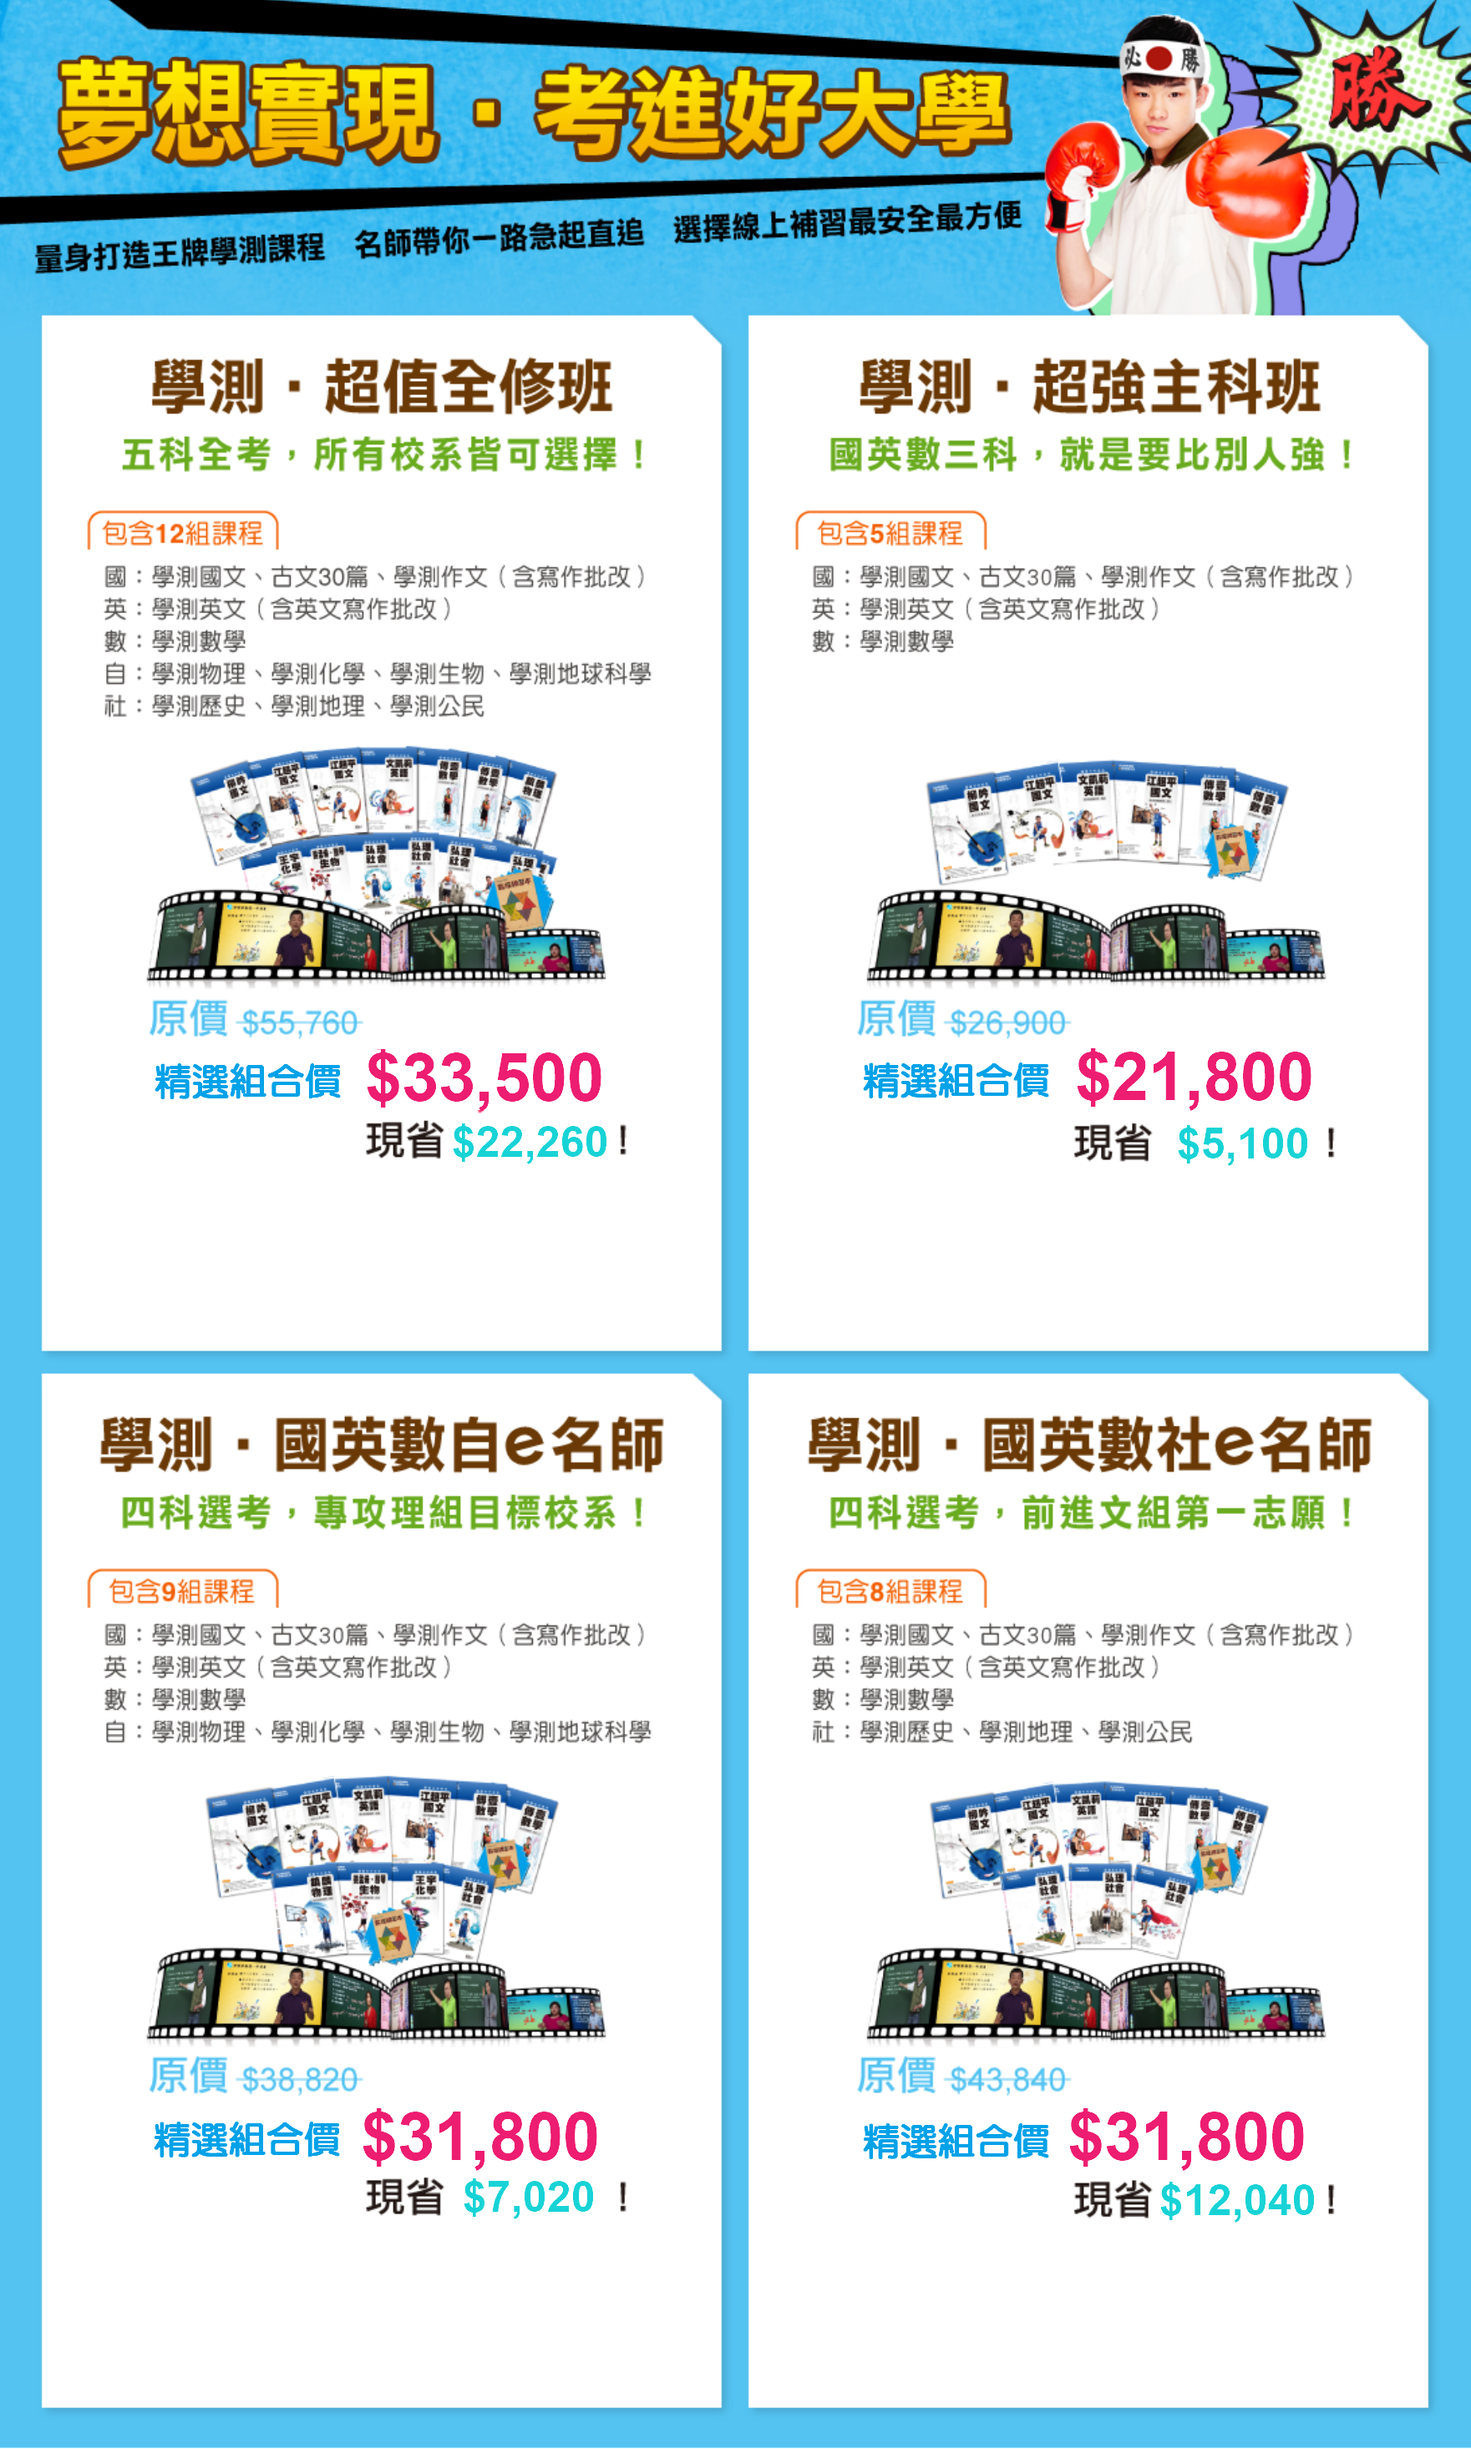
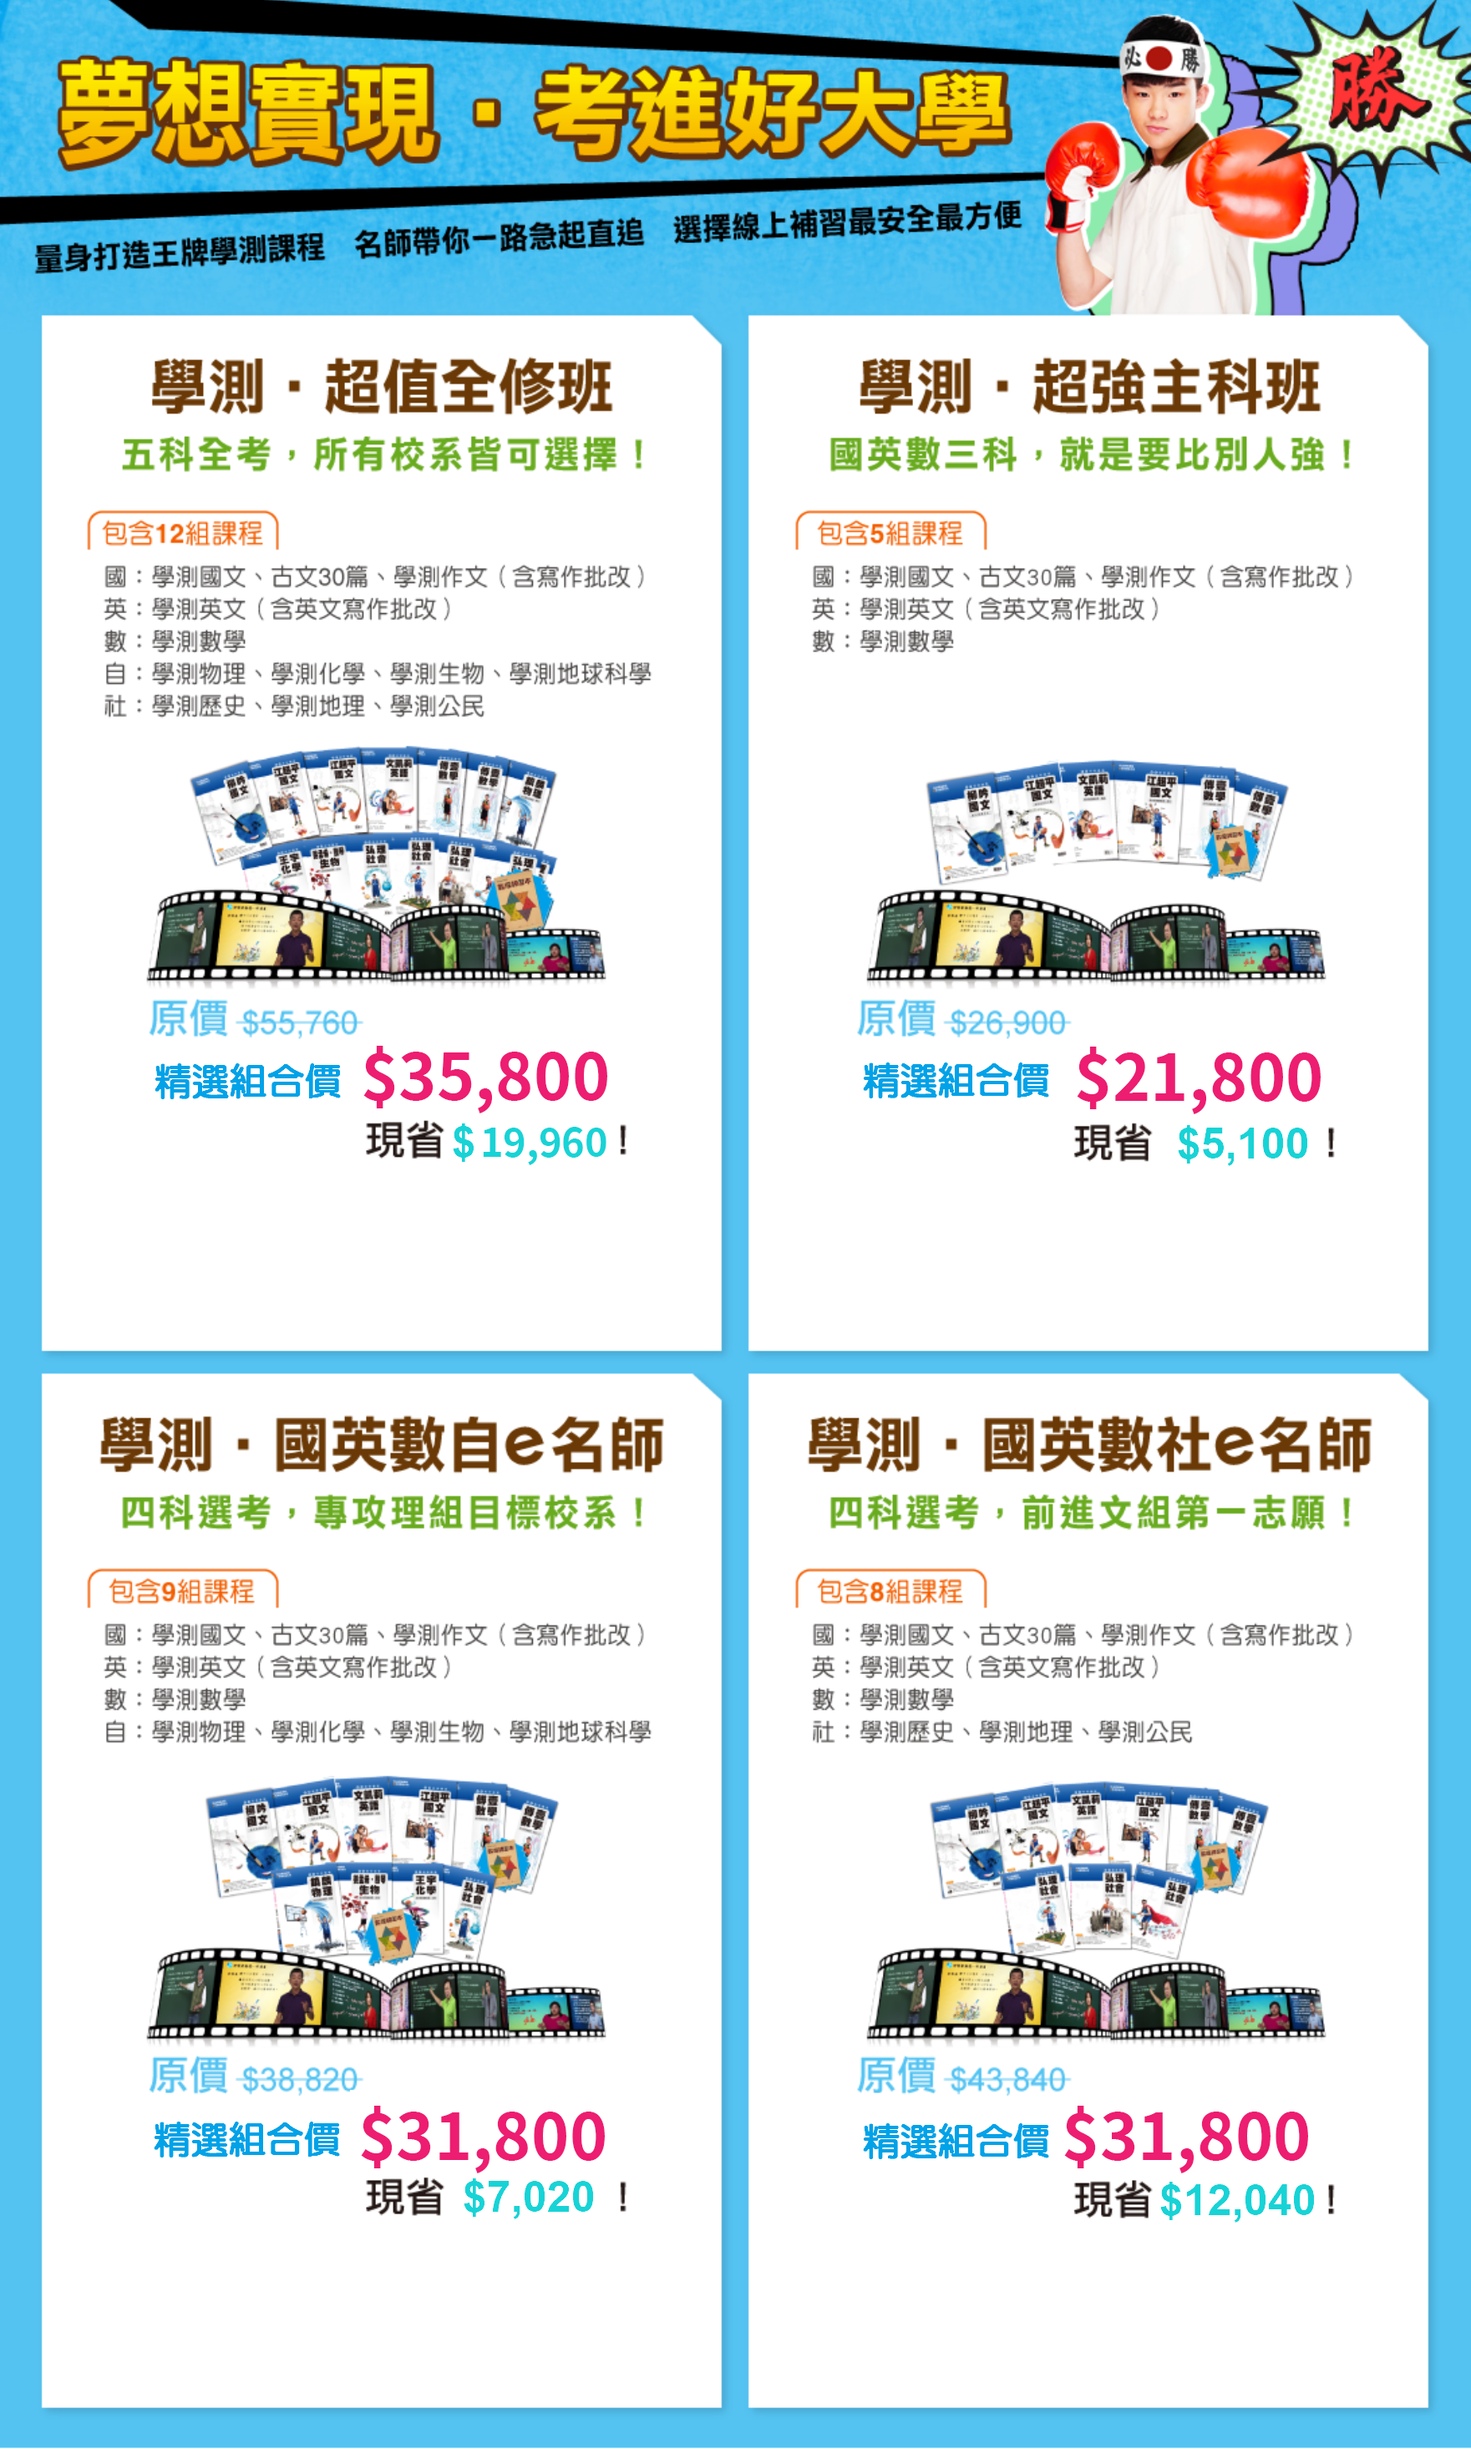
配合 109 修改 link 及圖片

diff --git a/dist/event/107highscrev/index.html b/dist/event/107highscrev/index.html
@@ -64,9 +64,8 @@
             </ul>
         </section>
         <section id="contents"><img src="./img/section_6.png?ts=20190601"/></section>
-        <section id="prices"><img src="./img/section_7.png?ts=20190601"/><a class="enter" target="_blank" href="https://www.ehanlin.com.tw/products/type/ONLINE/id/y105_sh_rev_all_et/SalesPlans.html"></a><a class="enter" target="_blank" href="https://www.ehanlin.com.tw/products/type/ONLINE/id/y106_sh_rev_mainall_et/SalesPlans.html"></a><a class="enter" target="_blank" href="https://www.ehanlin.com.tw/products/type/ONLINE/id/y107_sh_rev_science_et/SalesPlans.html"></a><a class="enter" target="_blank" href="https://www.ehanlin.com.tw/products/type/ONLINE/id/y107_sh_rev_society_et/SalesPlans.html"></a>
-        </section>
-        <footer><img src="./img/single.png?ts=20190601"/><a target="_blank" href="https://www.ehanlin.com.tw/products/type/ONLINE/category/【e名師】高中學測總複習/SalesPlans.html"></a><img src="./img/footer.png?ts=20190601"/><a target="_blank" href="https://www.ehanlin.com.tw/event/info/"></a></footer>
+        <section id="prices"><img src="./img/section_7.png?ts=20190601"/><a class="enter" target="_blank" href="https://www.ehanlin.com.tw/app/online-showcase/product-list.html#HS&amp;GSAT&amp;EG&amp;all"></a><a class="enter" target="_blank" href="https://www.ehanlin.com.tw/app/online-showcase/product-list.html#HS&amp;GSAT&amp;EG&amp;all"></a><a class="enter" target="_blank" href="https://www.ehanlin.com.tw/app/online-showcase/product-package.html?id=y109_sh_rev_naall_group"></a><a class="enter" target="_blank" href="https://www.ehanlin.com.tw/app/online-showcase/product-list.html#HS&amp;GSAT&amp;EG&amp;all"></a></section>
+        <footer><img src="./img/single.png?ts=20190601"/><a target="_blank" href="https://www.ehanlin.com.tw/app/online-showcase/product-list.html#HS&amp;GSAT&amp;all&amp;all"></a><img src="./img/footer.png?ts=20190601"/><a target="_blank" href="https://www.ehanlin.com.tw/event/info/"></a></footer>
         <script type="text/javascript" src="./js/index.js?ts=20190601"></script>
     </body>
 </html>
